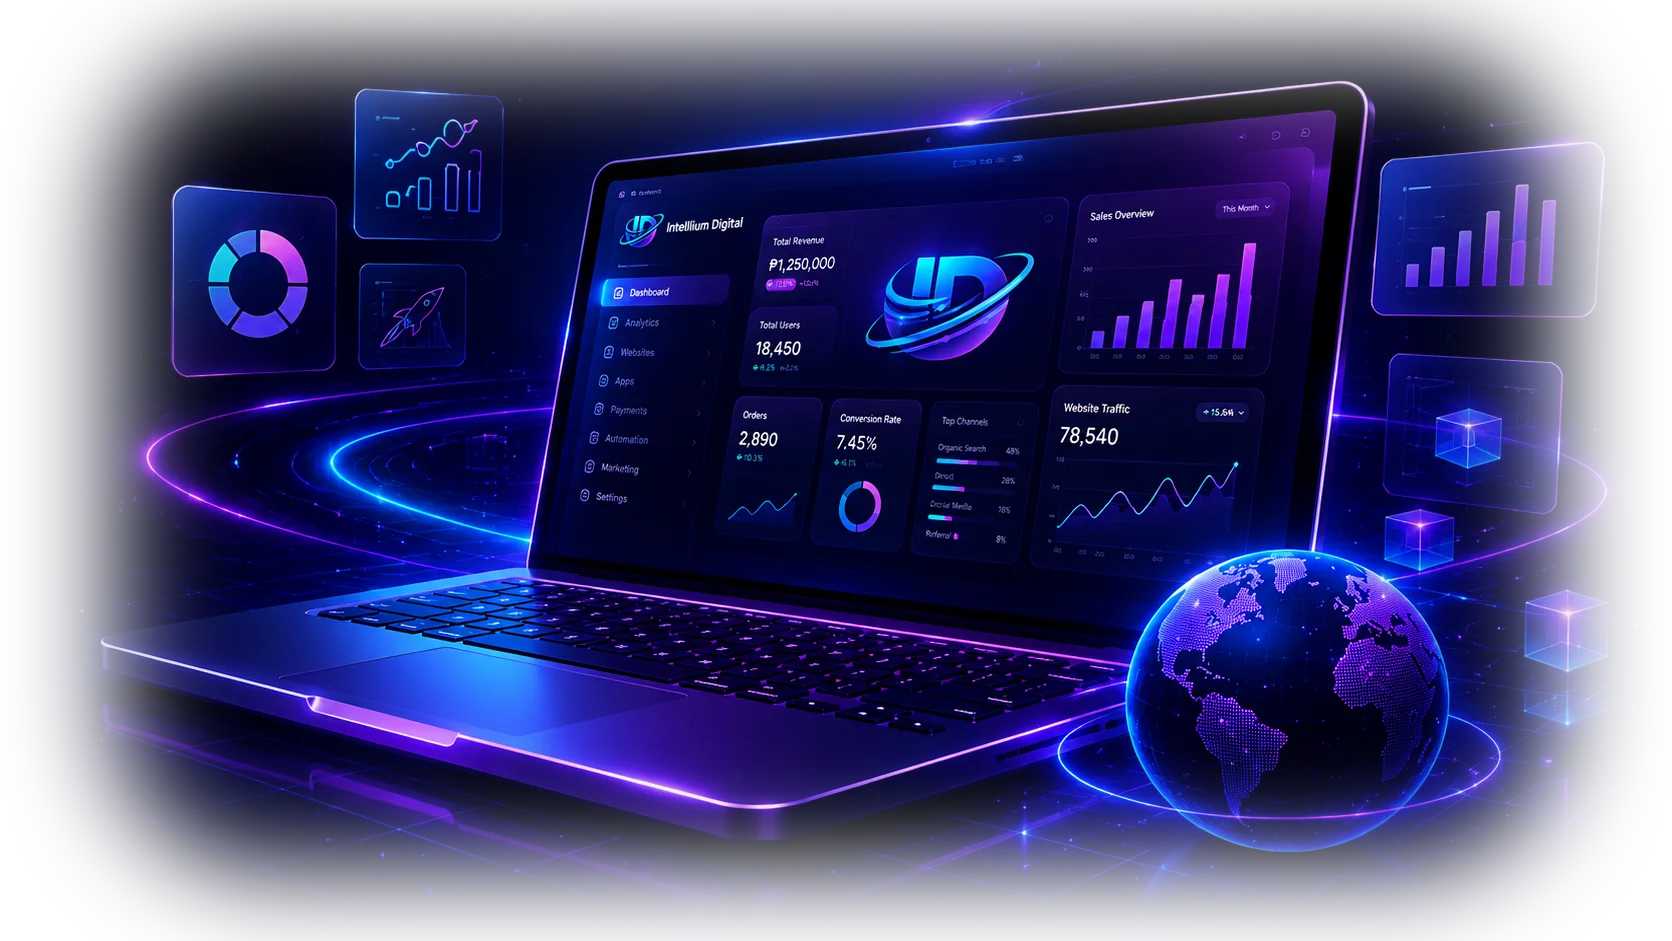
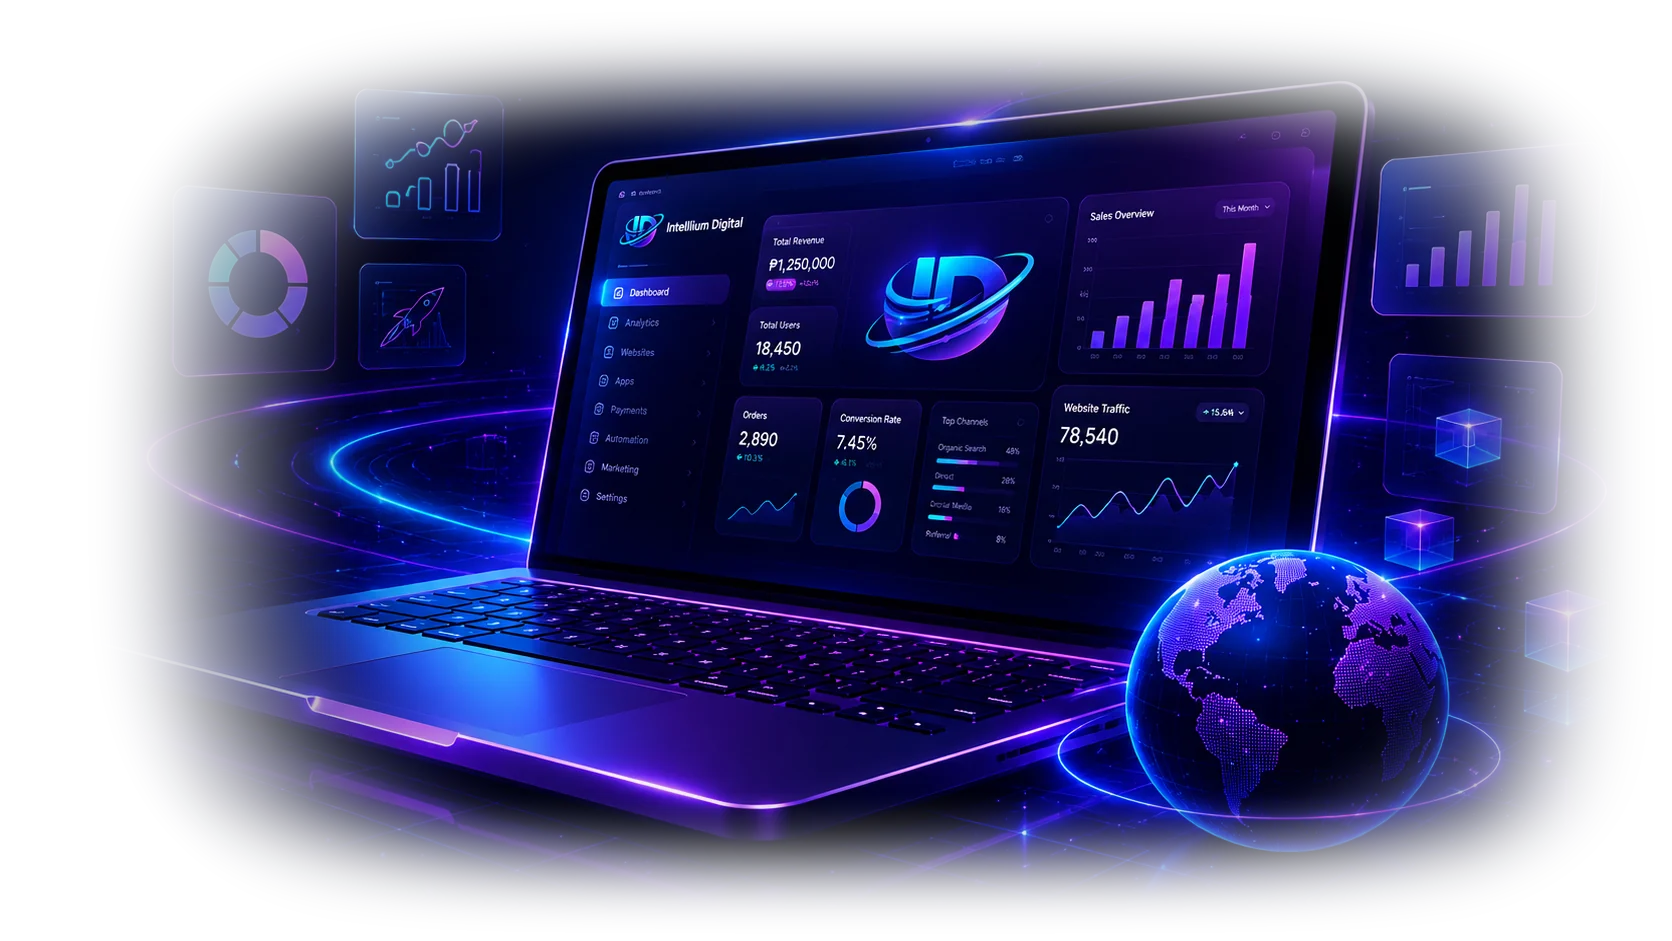
Use feathered hero image asset

diff --git a/Intellium Digital/style.css b/Intellium Digital/style.css
@@ -853,24 +853,25 @@ h1,h2,h3{
 .hero-image-stage::after{
   content:"";
   position:absolute;
-  inset:-8%;
+  inset:-4%;
   background:
     linear-gradient(90deg,
-      rgba(4,8,20,.92) 0%,
-      rgba(4,8,20,.54) 7%,
-      transparent 21%,
-      transparent 78%,
-      rgba(8,18,40,.50) 92%,
-      rgba(8,18,40,.86) 100%),
-    linear-gradient(180deg,
-      rgba(5,8,20,.82) 0%,
-      rgba(5,8,20,.42) 8%,
+      rgba(4,8,20,.22) 0%,
+      rgba(4,8,20,.08) 10%,
       transparent 22%,
-      transparent 76%,
-      rgba(8,18,40,.42) 91%,
-      rgba(8,18,40,.82) 100%);
-  filter:blur(12px);
-  z-index:2;
+      transparent 78%,
+      rgba(8,18,40,.08) 90%,
+      rgba(8,18,40,.20) 100%),
+    linear-gradient(180deg,
+      rgba(5,8,20,.18) 0%,
+      rgba(5,8,20,.06) 12%,
+      transparent 26%,
+      transparent 80%,
+      rgba(8,18,40,.08) 90%,
+      rgba(8,18,40,.18) 100%);
+  filter:blur(8px);
+  opacity:.6;
+  z-index:0;
   pointer-events:none;
 }
 .hero-main-image,
@@ -879,7 +880,6 @@ h1,h2,h3{
   width:min(118%,1120px);
   max-width:none;
   height:auto;
-  max-height:68vh;
   display:block;
   object-fit:contain;
   background:transparent !important;
@@ -892,20 +892,8 @@ h1,h2,h3{
   filter:
     drop-shadow(0 34px 70px rgba(0,0,0,.65))
     drop-shadow(0 0 34px rgba(90,214,255,.14));
-  -webkit-mask-image:
-    radial-gradient(ellipse at 50% 50%,
-      black 0%,
-      black 70%,
-      rgba(0,0,0,.84) 80%,
-      rgba(0,0,0,.48) 90%,
-      transparent 100%);
-  mask-image:
-    radial-gradient(ellipse at 50% 50%,
-      black 0%,
-      black 70%,
-      rgba(0,0,0,.84) 80%,
-      rgba(0,0,0,.48) 90%,
-      transparent 100%);
+  -webkit-mask-image:none;
+  mask-image:none;
 }
 
 .hero-visual .glass-3d,
